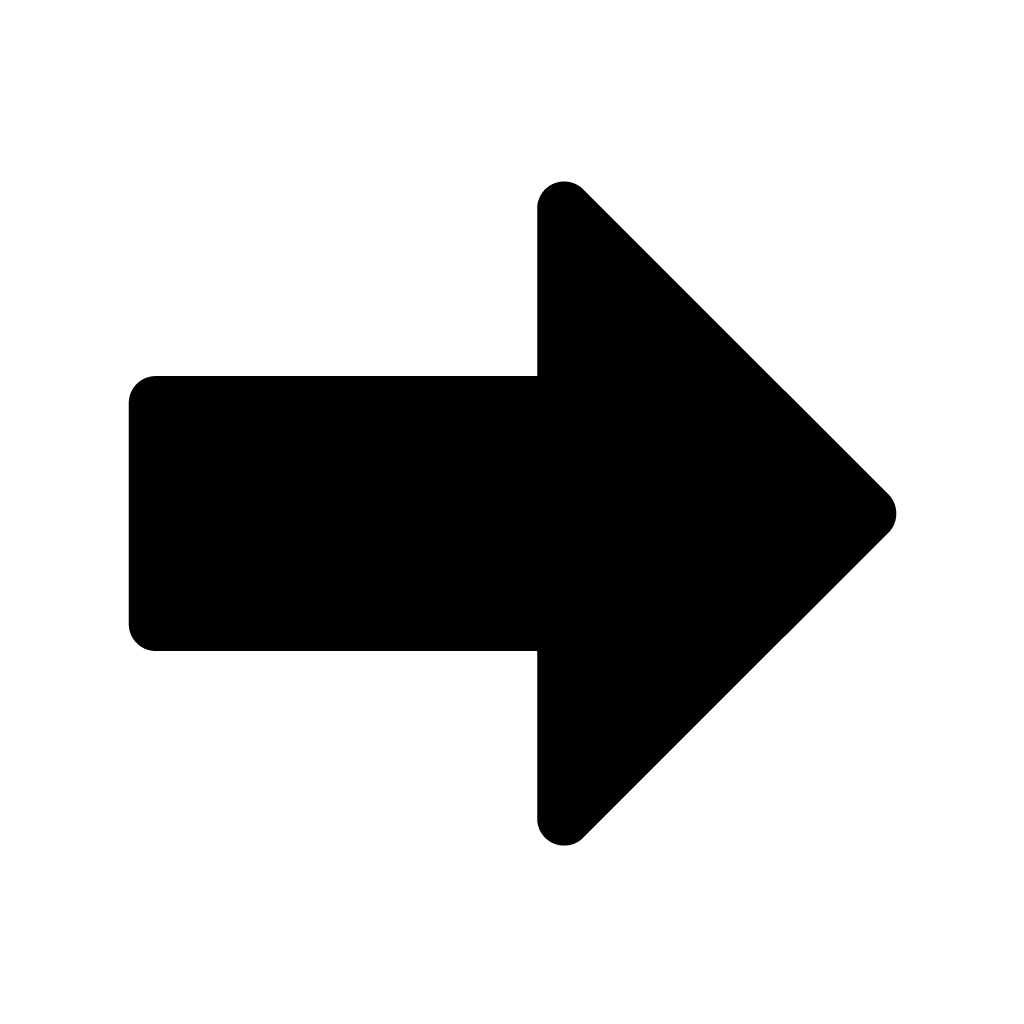
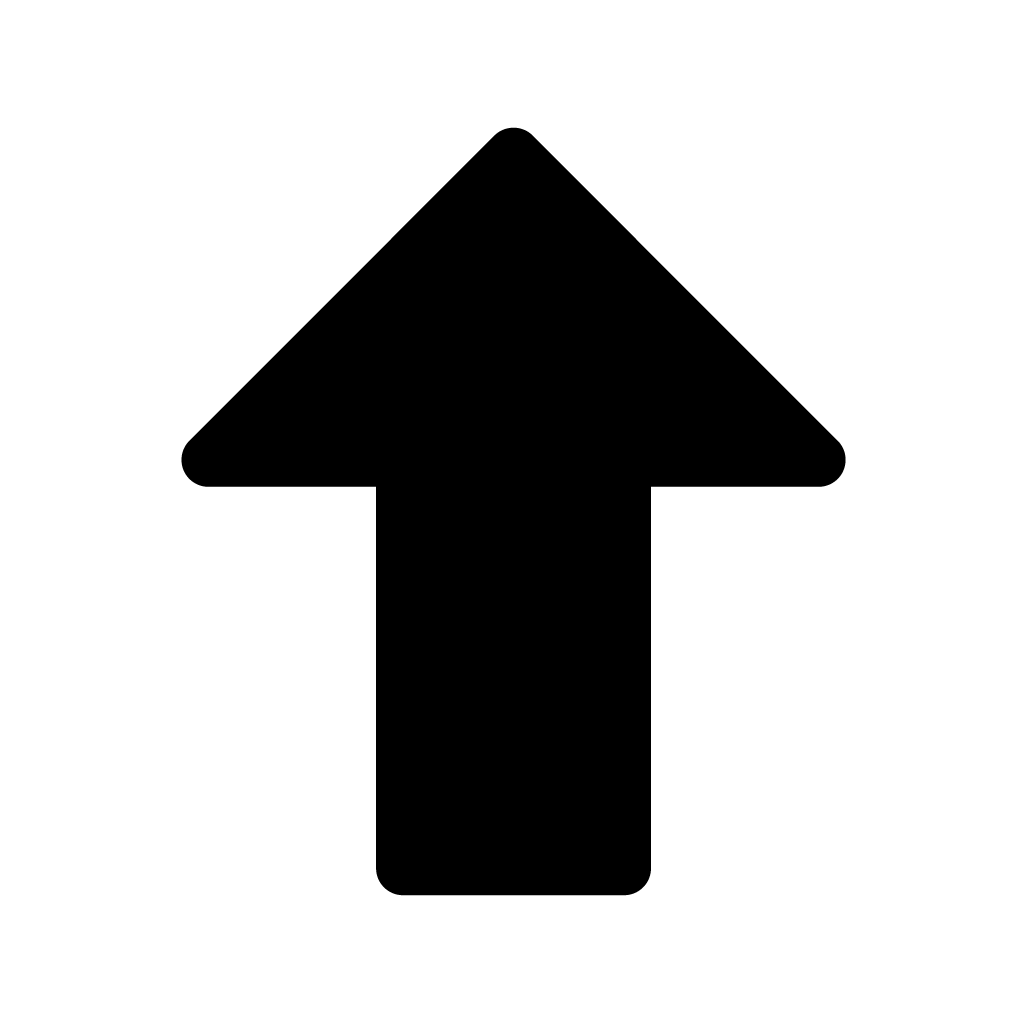
finished validation on answers table

Changed region(s): [[0.125, 0.125, 0.875, 0.875]]

diff --git a/src/app/_components/bdodleAnswersTable.tsx b/src/app/_components/bdodleAnswersTable.tsx
@@ -5,19 +5,26 @@ import {
     CardHeader,
     CardTitle,
 } from "~/components/ui/card"
-import { StaticImageData } from "next/image";
 import Arrow from "~/assets/png/bdoAssets/Arrow.png";
 import { useEffect, useState } from "react";
 import { Node, BdodleAnswerTableProps } from "../types";
 
-
+export const dynamic = "force-dynamic";
 const BdodleAnswersTable = ({ nodes, territoryImage, nodeTypeImage, correctNode }: BdodleAnswerTableProps) => {
     const [listOfGusses, setListOfGusses] = useState(nodes || []);
     const [rotation, setRotation] = useState(0);
 
     useEffect(() => {
         setListOfGusses(nodes)
+        localStorage.setItem("nodes", JSON.stringify(listOfGusses));
     }, [nodes]);
+
+    function handleLocalStorage() {
+        const nodes = localStorage.getItem("nodes");
+        if (nodes) {
+            setListOfGusses(JSON.parse(nodes));
+        }
+    }
 
     function getTerritoryImage(node: Node) {
         node.territory = node.territory?.replace(/\s/g, '') ?? "";
@@ -30,25 +37,57 @@ const BdodleAnswersTable = ({ nodes, territoryImage, nodeTypeImage, correctNode 
     }
 
     function validateName(node: Node) {
-        return node.name === correctNode.name;
+        if (node.name === correctNode?.name) {
+            return "bg-[#005E00]"
+        }
+        const containsWord = correctNode?.name?.split(' ').some(word => node.name?.includes(word));
+        if (containsWord) {
+            return "bg-[#b3932c]";
+        }
+        return "bg-[#900100]";
     }
 
     function validateType(node: Node) {
-        return node.type === correctNode.type;
+        return node.type === correctNode?.type;
     }
 
-    function validatePosition(node: Node) {
-        //TODO calculate the angle of the vector between the two nodes, return a rotation degrees
-
-        return false
+    function validateContribution(node: Node) {
+        return node.contribution === correctNode?.contribution;
     }
 
     function validateConnections(node: Node) {
-        return node.connections?.length === correctNode.connections?.length;
+        return node.connections?.length === correctNode?.connections?.length;
     }
 
     function validateTerritory(node: Node) {
-        return node.territory === correctNode.territory;
+        return node.territory === correctNode?.territory;
+    }
+
+
+    function getRotationString(node: Node, whatToValidate: string) {
+        switch (whatToValidate) {
+            case "CONNECTIONS":
+                //@ts-ignore
+                if (node.connections?.length > correctNode?.connections?.length) {
+                    return "rotate(180deg)";
+                }
+                if (node.connections?.length === correctNode?.connections?.length) {
+                    return "rotate(90deg)";
+                }
+                return "rotate(0deg)";
+
+            case "CONTRIBUTION":
+                //@ts-ignore
+                if (node.contribution > correctNode?.contribution) {
+                    return "rotate(180deg)";
+                }
+                if (node.contribution === correctNode?.contribution) {
+                    return "rotate(90deg)";
+                }
+                return "rotate(0deg)";
+            default:
+                return "rotate(0deg)";
+        }
     }
 
     return (
@@ -66,7 +105,7 @@ const BdodleAnswersTable = ({ nodes, territoryImage, nodeTypeImage, correctNode 
                 </Card>
                 <Card>
                     <CardHeader>
-                        <CardTitle>Location</CardTitle>
+                        <CardTitle>Contribution</CardTitle>
                     </CardHeader>
                 </Card>
                 <Card>
@@ -83,10 +122,10 @@ const BdodleAnswersTable = ({ nodes, territoryImage, nodeTypeImage, correctNode 
             {
                 listOfGusses?.map((node: Node, index: number) => (
                     <div key={index} id="tableResults" className="w-full justify-between flex gap-3">
-                        <Card className={validateName(node) ? 'bg-[#005E00]' : 'bg-[#900100]'}>
+                        <Card className={validateName(node)}>
                             <CardHeader>
                                 <CardContent>
-                                    <div className="">{node.name}</div>
+                                    <div className="text-2xl font-extrabold">{node.name}</div>
                                 </CardContent>
                             </CardHeader>
                         </Card>
@@ -97,17 +136,19 @@ const BdodleAnswersTable = ({ nodes, territoryImage, nodeTypeImage, correctNode 
                                 </CardContent>
                             </CardHeader>
                         </Card>
-                        <Card className={validatePosition(node) ? 'bg-[#005E00]' : 'bg-[#900100]'}>
+                        <Card className={validateContribution(node) ? 'bg-[#005E00]' : `bg-[#900100]`}>
                             <CardHeader>
                                 <CardContent>
-                                    <img className="h-24 w-24" src={Arrow.src} alt="Location" />
+                                    <div className="text-2xl flex pt-5 justify-center items-center">{node.contribution}</div>
+                                    <img style={{ transform: getRotationString(node, "CONTRIBUTION") }} className={`h-24 w-24`} src={Arrow.src} alt="Location" />
                                 </CardContent>
                             </CardHeader>
                         </Card>
                         <Card className={validateConnections(node) ? 'bg-[#005E00]' : 'bg-[#900100]'}>
                             <CardHeader>
                                 <CardContent>
-                                    <div className="text-2xl">{node.connections?.length}</div>
+                                    <div className="text-2xl flex pt-5 justify-center items-center">{node.connections?.length}</div>
+                                    <img style={{ transform: getRotationString(node, "CONNECTIONS") }} className={`h-24 w-24`} src={Arrow.src} alt="Location" />
                                 </CardContent>
                             </CardHeader>
                         </Card>

diff --git a/src/app/types.ts b/src/app/types.ts
@@ -6,23 +6,31 @@ export interface Node {
     name: string | null;
     type: string | null;
     connections: number[] | null;
-    coordinates: unknown;
+    coordinates: { x: number, y: number };
     contribution: number | null;
     territory: string | null;
+    nodeOfDay: boolean | null;
+}
+
+export interface GameProps {
+    nodes: Node[];
+    correctNode: Node | undefined;
+    territoryImage: StaticImageData[];
+    nodeTypeImage: StaticImageData[];
 }
 
 export interface BdodleAnswerTableProps {
     nodes: Node[];
-    correctNode: Node;
+    correctNode: Node | undefined;
     territoryImage: StaticImageData[];
     nodeTypeImage: StaticImageData[];
 }
 
 export interface BdodleDropdownProps {
     nodes: Node[];
-    correctNode: Node;
     territoryImage: StaticImageData[];
     nodeTypeImage: StaticImageData[];
+    submitGuess: (node: Node) => void;
 }
 
 export interface BdodleInputProps {

diff --git a/src/app/_components/bdodleDropdown.tsx b/src/app/_components/bdodleDropdown.tsx
@@ -1,5 +1,4 @@
 'use client'
-import { StaticImageData } from "next/image";
 import BdodleInput from "./bdodleInput";
 import {
     HoverCard,
@@ -7,24 +6,7 @@ import {
     HoverCardTrigger,
 } from "~/components/ui/hover-card"
 import { useState } from "react";
-
-interface Node {
-    id: number;
-    nodeId: number | null;
-    name: string | null;
-    type: string | null;
-    connections: number[] | null;
-    coordinates: unknown;
-    contribution: number | null;
-    territory: string | null;
-}
-
-interface BdodleDropdownProps {
-    nodes: Node[];
-    territoryImage: StaticImageData[];
-    nodeTypeImage: StaticImageData[];
-    submitGuess: (node: Node) => void;
-}
+import { Node, BdodleDropdownProps } from "../types";
 
 const BdodleDropdown = ({ nodes, territoryImage, nodeTypeImage, submitGuess }: BdodleDropdownProps) => {
     const [inputValue, setInputValue] = useState("");

diff --git a/src/app/page.tsx b/src/app/page.tsx
@@ -44,29 +44,13 @@ export default async function HomePage() {
     Danger,
     Town
   ]
-
+  //@ts-ignore
   const nodes: Node[] = await db.query.nodes.findMany();
   nodes.sort((a, b) => (a?.nodeId || 0) - (b?.nodeId || 0));
 
+
   //ADD A DB CALL TO GET A RANDOM NODE HERE AND CACHE IT IN LOCAL STORAGE WHEN PASSED INTO COMPONENT
-  const mockCorrectNode: Node = {
-    "id": 1052,
-    "nodeId": 1052,
-    "name": "Louruve Island",
-    "type": "Connection",
-    "connections": [
-      1051,
-      1053,
-      1054,
-      1088
-    ],
-    "coordinates": {
-      "x": -213127,
-      "y": 234473
-    },
-    "contribution": 1,
-    "territory": "Balenos"
-  };
+  const mockCorrectNode: Node | undefined = nodes.find(node => node.nodeOfDay === true);
 
   return (
     <main className="">

diff --git a/src/app/_components/game.tsx b/src/app/_components/game.tsx
@@ -1,12 +1,11 @@
 'use client'
-import { StaticImageData } from "next/image";
-import { useEffect, useState } from "react";
+import { useState } from "react";
 import BdodleDropdown from "./bdodleDropdown";
 import BdodleAnswersTable from "./bdodleAnswersTable";
-import { Node, BdodleDropdownProps } from "../types";
+import { Node, GameProps } from "../types";
 
 
-const Game = ({ nodes, correctNode, territoryImage, nodeTypeImage }: BdodleDropdownProps) => {
+const Game = ({ nodes, correctNode, territoryImage, nodeTypeImage }: GameProps) => {
     const [listOfGusses, setListOfGusses] = useState<Node[]>([]);
 
     function updatedListOfGusses(node: Node) {

diff --git a/src/server/db/schema.ts b/src/server/db/schema.ts
@@ -8,7 +8,8 @@ import {
   serial,
   varchar,
   integer,
-  json
+  json,
+  boolean
 } from "drizzle-orm/pg-core";
 
 /**
@@ -30,6 +31,7 @@ export const nodes = createTable(
     coordinates: json("coordinates"),
     contribution: integer("contribution"),
     territory: varchar("territory", { length: 256 }),
+    nodeOfDay: boolean("nodeOfDay"),
   },
   (example) => ({
     nameIndex: index("name_idx").on(example.name),

diff --git a/README.md b/README.md
@@ -1,4 +1,4 @@
-##TODO
+ ##TODO
 
  - [x] Make it Deploy
  - [x] Scaffold basic ui with mock data
@@ -7,8 +7,10 @@
  - [x] Add red eyes under title
  - [x] Add answers table
  - [x] Connect search props to answer table
- - [ ] Add validation of answer against correct node
- - [ ] Rotate arrow based on vector to correct node
+ - [x] Add validation of answer against correct node
+ - [x] Rotate arrow based on validation of contribution & connections
  - [ ] Add local storage persistence
+ - [ ] Add win condition state
+ - [ ] Build score component + show counter to new bdodle
  - [ ] Add task? to change correct answer every 24 hours
  - [ ] Fix styling
